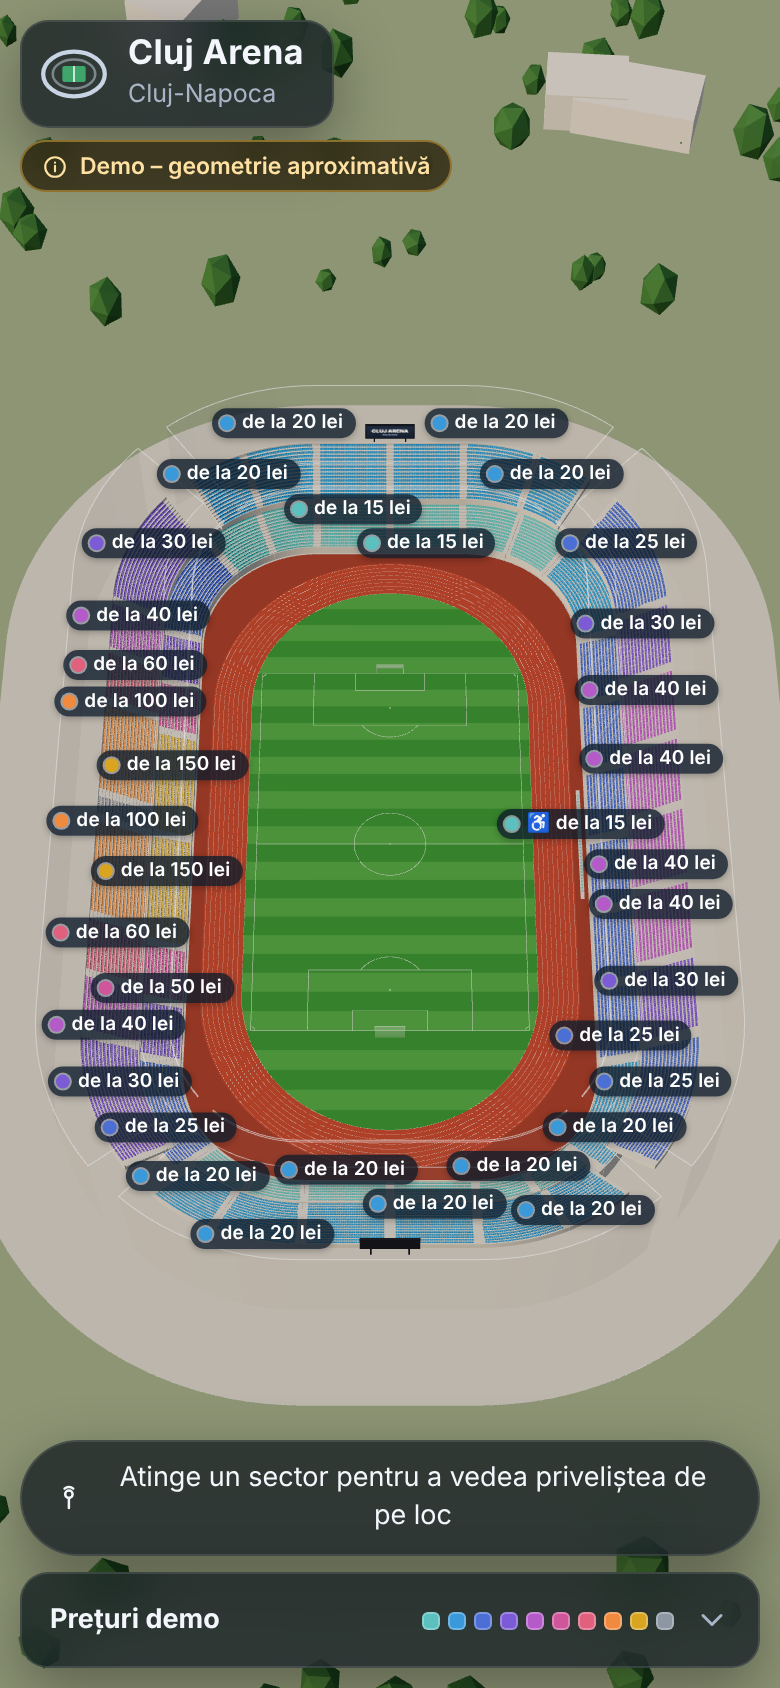
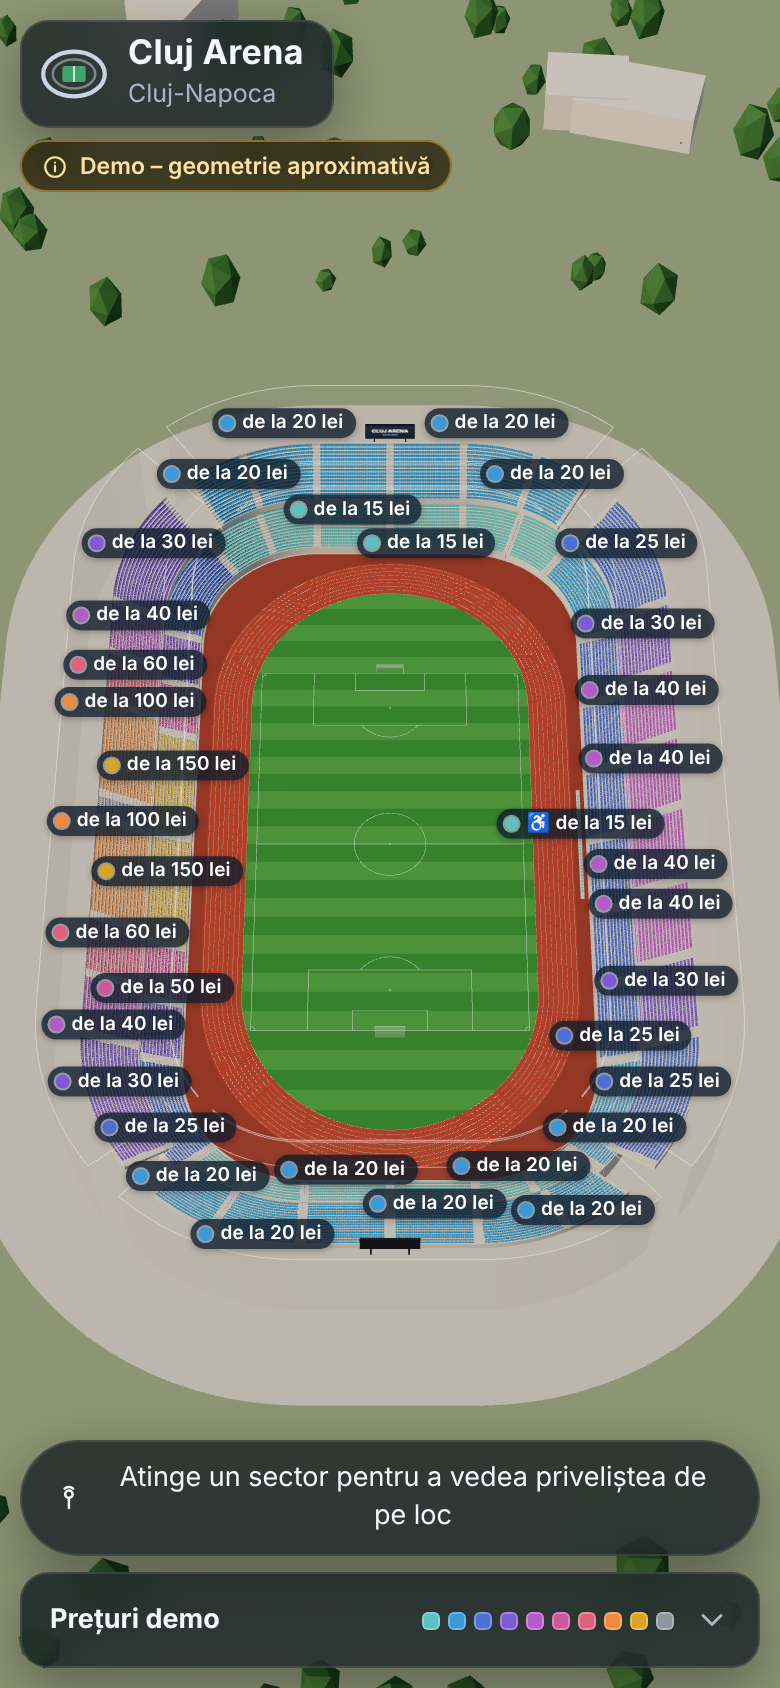
REPORT.md: results, screenshots, FPS, tests, review outcome, on-site checklist, next steps
Claude-Session: https://claude.ai/code/session_01UAsyvKvTrNXNitT8HvreMs

diff --git a/REPORT.md b/REPORT.md
@@ -1,0 +1,284 @@
+# REPORT — Cluj Arena "view from your seat" sales demo
+
+**Status: complete and verified.** All 85 unit tests and 7 end-to-end tests pass;
+the typecheck and `npm run build` pass; there are zero console errors. An
+independent reviewer agent (fresh context, did not write the code) checked
+the build against the spec and tried to break it; its findings were fixed or
+documented (see §5). Everything is committed and pushed on
+`claude/relaxed-galileo-5jqhby`.
+
+> **Read first:** every geometric value is an **estimate**. The build
+> environment could not open any reference website or photo (only a search
+> engine's text excerpts were reachable), so the stadium has not been checked
+> against a plan or a photo. The checklist in §6 is what to verify at
+> the stadium before calling it "Cluj Arena" in front of the venue's managers.
+
+## 1. What works
+
+| Brief | Result |
+|---|---|
+| Overview in 3D, from above at an angle | ✓ Framed for the screen shape: a laptop looks at the main stand (VIP, press and 100-lei sectors visible), a phone looks along the long axis. Drag to orbit, wheel/pinch to zoom (limited). |
+| Sectors coloured by price tier, labelled "de la X lei" | ✓ 9 demo tiers plus press. Labels are ranked by commercial value, so premium sectors are always labelled: 50/58 labels on a 1440×900 laptop, 35/58 on a 390×844 phone (the hidden ones are the cheapest lower-ring sectors; their price shows on hover and in the seat panel). |
+| Tap → highlight → ~1.5 s eased flight to a representative seat | ✓ 1.5 s ease-in-out cubic flight. It never passes through the roof or the stands (tested for all 58 sectors, all 3,306 seat-to-seat pairs and mid-air retargets). Other sectors turn grey. |
+| Seat view at eye height, limited look-around, stand/sector/row/seat/price, back, pick another sector | ✓ Eye 1.2 m above the tread. Drag to look: ±75° yaw, −50°…+20° pitch. Seat panel shows all fields, "Înapoi la stadion". Tapping another sector from the seat flies straight there. The phone's back gesture also returns to the overview. |
+| "Cumpără" → clearly fake checkout | ✓ "Demo – fără plată reală" banner, 1–4 adjacent seats, total, demo confirmation. No payment or personal-data fields. Disabled for the press sector. |
+| Romanian UI, "Cluj Arena", "Demo – geometrie aproximativă", no logos | ✓ Including the error and fallback screens. No club names, crests or sponsor marks anywhere. |
+| Laptop and phone | ✓ 1440×900, 390×844 portrait, and phones in landscape (compact layout). Adaptive resolution for slower devices. |
+| Robust to fast repeated taps | ✓ Each new tap retargets the flight from the camera's current pose: no queue, no snapping, the last tap wins (e2e-tested). |
+| Venue-agnostic generator with an extension point | ✓ A second, fictional venue (`?venue=example-arena`: football-only, one ring, no track) renders and passes the same invariant tests. The theatre ("horseshoe") extension point and its real scope are in ARCHITECTURE §9. |
+| Invalid config fails fast | ✓ zod plus semantic checks; messages name the JSON path and the sector. The app shows the errors instead of a broken scene. |
+
+## 2. Screenshots
+
+All from Playwright on the production build. "Seat" screenshots were taken
+after a **real tap** on the sector in the overview and the camera's arrival.
+
+| | Laptop 1440×900 | Phone 390×844 |
+|---|---|---|
+| Overview | ![](screenshots/desktop-overview.png) | ![](screenshots/phone-overview.png) |
+| Tribuna I · 2C (100 lei) | ![](screenshots/desktop-seat-tribuna-I-2C.png) | ![](screenshots/phone-seat-tribuna-I-2C.png) |
+| Peluza II · 1H (lower ring) | ![](screenshots/desktop-seat-peluza-II-1H.png) | ![](screenshots/phone-seat-peluza-II-1H.png) |
+| Tribuna II · 2M2 | ![](screenshots/desktop-seat-tribuna-II-2M2.png) | ![](screenshots/phone-seat-tribuna-II-2M2.png) |
+| Peluza I · 2V | ![](screenshots/desktop-seat-peluza-I-2V.png) | ![](screenshots/phone-seat-peluza-I-2V.png) |
+| Fake checkout | ![](screenshots/desktop-checkout.png) | ![](screenshots/phone-checkout.png) |
+
+Extra: corner sector at the roof gap ![](screenshots/desktop-seat-corner-2O2.png),
+phone in landscape ![](screenshots/phone-landscape-seat-2M2.png)
+![](screenshots/phone-landscape-checkout.png), and the second venue
+![](screenshots/example-arena-overview.png). The landscape and second-venue
+shots are manual Playwright captures from the dev server.
+
+## 3. Performance (overview, all 30,335 seats rendered)
+
+| Measured in this environment (headless Chromium, **SwiftShader = CPU rendering, 4 cores**) | DPR 1 | DPR 2 |
+|---|---|---|
+| Frames per second | **4.0** | **1.75** |
+| p95 frame time | 317 ms | 700 ms |
+| **Our JavaScript per frame** (CDP `ScriptDuration`) | **1.8 ms** | **2.1 ms** |
+| Main-thread time per frame (mostly waiting for the software rasteriser) | 283 ms | 799 ms |
+| Draw calls / triangles | 89 / 158,298 | 89 / 158,298 |
+
+**How to read this:** this container has no GPU, so every pixel is rasterised
+on the CPU. Those fps numbers are a floor and say nothing about a laptop. What
+does transfer to real hardware:
+
+- **Our CPU cost is ~2 ms per frame**, about 12 % of a 60 fps budget.
+- **The GPU load is small:** 89 draw calls and ~160k triangles in the overview
+  (seat LOD: 4-triangle seats when far, 20 when near), plus about 645k
+  triangles in the seat view. A mid-range laptop GPU handles this many times
+  over.
+- **Fill rate is what scales with screen density** (DPR 2 ≈ ½ the fps of DPR 1
+  here). That's why the resolution adapts on slow devices.
+
+**Please measure on the demo hardware:** open the deployed site with `?fps`
+(e.g. `https://<your-app>.vercel.app/?fps`). A meter shows fps and the worst
+frame. I could not measure a real GPU here, so I don't claim "60 fps". The
+design target is that, and the numbers above are why I expect it.
+
+## 4. Test results
+
+**Unit tests (vitest): 85 passed, 9 files.**
+
+| Area | What is checked |
+|---|---|
+| Seat count | generated seats = the sum of the rows = `capacity.total` = **30,335**; VIP **1,464**, press **168**, wheelchair **32**; unique ids; sectors contiguous |
+| Seat spacing | no two seats closer than their seat width (spatial hash over all 30,335 seats, 1 mm tolerance for curved rows) |
+| Sightlines | **every seat** clears the heads in front to the **pitch centre** with C ≥ 60 mm (minimum found: **252 mm**, at 1A2 row 2) and clears every parapet (minimum **73 mm**, 1A2 row 1). Stricter than asked: also to the **nearest touchline**, minimum **77 mm** (upper ring, Tribuna I) |
+| Every venue file | the same invariants for `example-arena` (touchline minimum 65 mm). Its first draft failed at 24 mm and was fixed, which shows the tests catch real design errors |
+| Curve maths | exact offset lengths vs. numeric integration, inverse mapping, level-set property, continuity |
+| Validation | 19 broken configs, each rejected with a specific, located message |
+| Meshes | finite, indices in range, triangle winding matches normals, roof ≥ 3 m above the highest eye |
+| Camera | framing on laptop and phone, look clamps, portrait tilt, roof-safe flights for every sector and seat pair plus a control test that catches a naive straight-line flight |
+| UI helpers | price formatting, seat summary, error rendering |
+
+**End-to-end (Playwright, production build): 7 passed, 0 console errors.**
+- Laptop and phone: overview → **real tap** on a sector in each stand (2C, 1H, 2M2, 2V) → seat view → back → fake checkout → Escape.
+- Rapid taps (3 sectors in about 300 ms) end on the last one tapped.
+- Escape mid-flight, corner sectors at the roof gaps (2A1, 2O2), the press sector (purchase disabled).
+- Browser/phone back gesture returns from a seat to the overview.
+- FPS at DPR 1 and 2 (above).
+
+The one console *warning* on load (`THREE.Clock … deprecated`) comes from
+@react-three/fiber 9.8 running with three 0.187; it is not an error and needs an upstream fix.
+
+**Build:** `npm run build` passes (tsc + Vite). Gzipped: three.js 193 kB, R3F/drei 126 kB, app 60 kB.
+
+## 5. Independent review — findings and what happened
+
+The reviewer found no blockers and 17 findings. All four majors are fixed:
+
+| # | Finding | Outcome |
+|---|---|---|
+| 1 | Sky never rendered (sky sphere beyond the camera's far plane) | **Fixed**: the sky dome follows the camera inside the far plane |
+| 2 | Overview hid labels of premium sectors (33/58 shown, 2C/2D/1C/2M2 missing) | **Fixed**: commercial-value ranking plus nudging; 50/58, all premium shown |
+| 3 | No WebGL fallback or error boundary (blank white page) | **Fixed**: WebGL check, error boundary, context-loss handling, Romanian fallback with reload |
+| 4 | Phone landscape: seat card covered 74 % of the height; checkout scrolled | **Fixed**: compact card, two-column checkout that fits |
+| 5 | Floodlights as a stray dotted line in the overview | **Fixed**: hidden with the ghosted roof |
+| 6 | Rotating the phone lost the portrait tilt | **Fixed** |
+| 7 | Phone back gesture left the demo | **Fixed**: history entry per seat view |
+| 8 | Validator gaps (roof segments, floodlight count, eye height, rows on the field, index-only paths) | **Fixed** |
+| 9 | Horseshoe extension point narrower than documented | **Documented honestly** (ARCHITECTURE §9); an interface waits for a second template |
+| 10 | Lower ring of Tribuna I priced 25–40, not 25–50 | **Fixed** (1B/1E at 50 lei) |
+| 11 | Eye height read as "above the tread" vs. "above the seat" | **Kept**, needs your confirmation (FACTS.md) |
+| 12 | THREE.Clock warning | Upstream; documented |
+| 13 | Phone: expanded legend pushed the hint over the stadium | **Fixed** (hint hides while the legend is open). Zoom always targets the centre: kept |
+| 14 | Seat view draws all seats at full detail; continuous rendering | Kept (fine on laptops; adaptive DPR protects phones); next step 3 below |
+| 15 | REPORT.md missing; wrong wheelchair-platform location; roof coverage stated as 93 % | **Fixed** (this file; docs corrected; coverage is 98 % in plan) |
+| 16 | drei never imported | **Fixed**: drei's `PerformanceMonitor` drives the adaptive resolution |
+| 17 | English details on the error page; misleading title for an unknown venue; static `<title>` | **Partly fixed**: distinct "Locație necunoscută" page, title from the venue. The validator details stay in English (they are for whoever edits the JSON) |
+
+While fixing these, the e2e suite exposed a flaky test: it tapped during the
+load-time camera intro. That was fixed in the test, which now waits for the
+camera to be idle. The app behaviour was correct.
+
+## 6. Still ESTIMATED: what to verify at the stadium
+
+Seat counts per row were fitted to the sourced totals (30,335 / 1,464 / 168 / 32)
+from an estimated cross-section, so per-sector counts are only as good as the
+row counts. Spans are metres along the bowl's reference line (see README).
+
+**Whole stadium (do these first; they move everything else)**
+- [ ] Rows per ring: lower **14**, upper **16** (same in all four stands?)
+- [ ] Row depth 0.80 m; seat width 0.50 m (VIP 0.55 m)
+- [ ] Lower ring first-row height ≈ 1.6 m above the track; upper ring first row ≈ 11.5 m; upper ring overhangs the lower ring by ≈ 2.7 m
+- [ ] Rakes: lower ≈ 21°→27°, upper ≈ 30°→34°
+- [ ] Bowl front line ≈ 184 × 100 m with ≈ 30 m corner radius; corners of the lower ring continuous?
+- [ ] Upper ring and roof **open at the four corners**? Gap width (≈ 10 m at the facade used)
+- [ ] Roof leading edge position: the model covers 98 % of seats in plan, the source says ≈ 93 % (maybe 1–2 front rows uncovered)
+- [ ] Roof edge ≈ 27–28 m high; translucent band ≈ 7 m deep
+- [ ] Floodlights along the roof edge (386 fittings sourced)
+- [ ] Two screens: position (modelled behind the upper ring of each peluza)
+- [ ] Wheelchair spaces (32): location (modelled at pitch level in front of Tribuna II, sector `PD`)
+- [ ] VIP/business (1,464): location (modelled as lower-ring sectors 1C/1D of Tribuna I) and the boxes level
+- [ ] Press (168): location (modelled as narrow upper-ring sector 2P at the centre of Tribuna I)
+- [ ] Which end is Peluza I (Sud) vs. II (Nord); Tribuna I on the west
+- [ ] Real seat colours (sourced as "shades of grey"; the demo colours seats by price)
+- [ ] Sector letters and boundaries against the bilete.ro seat map (only 2A1, 2A2, 2B, 2C, 2D, 1M1, 1M2, 2M2, 1T1, 1Y are sourced)
+
+**Per sector** (rows, seats, demo price, span):
+
+#### Tribuna I
+
+**Inelul 1 (inferior)**: 8 sectors, rows 1–14, first tread 1.6 m, last 6.15 m
+
+- [ ] **1A1**: 14 rows, 727 seats, 25 lei, span -85.562 … -62 m
+- [ ] **1A2**: 14 rows, 378 seats, 30 lei, span -62 … -46.5 m
+- [ ] **1B**: 14 rows, 378 seats, 50 lei, span -46.5 … -31 m
+- [ ] **1C** (vip): 14 rows, 736 seats, 150 lei, span -31 … 0 m
+- [ ] **1D** (vip): 14 rows, 728 seats, 150 lei, span 0 … 31 m
+- [ ] **1E**: 14 rows, 378 seats, 50 lei, span 31 … 46.5 m
+- [ ] **1F1**: 14 rows, 378 seats, 30 lei, span 46.5 … 62 m
+- [ ] **1F2**: 14 rows, 727 seats, 25 lei, span 62 … 85.562 m
+
+**Inelul 2 (superior)**: 9 sectors, rows 1–16, first tread 11.5 m, last 19.075 m
+
+- [ ] **2A1**: 16 rows, 947 seats, 30 lei, span -83.062 … -62 m
+- [ ] **2A2**: 16 rows, 432 seats, 40 lei, span -62 … -46.5 m
+- [ ] **2B**: 16 rows, 432 seats, 60 lei, span -46.5 … -31 m
+- [ ] **2C**: 16 rows, 800 seats, 100 lei, span -31 … -3.5 m
+- [ ] **2P** (press): 16 rows, 168 seats, not for sale, span -3.5 … 3.5 m
+- [ ] **2D**: 16 rows, 800 seats, 100 lei, span 3.5 … 31 m
+- [ ] **2E**: 16 rows, 432 seats, 60 lei, span 31 … 46.5 m
+- [ ] **2F1**: 16 rows, 432 seats, 40 lei, span 46.5 … 62 m
+- [ ] **2F2**: 16 rows, 947 seats, 30 lei, span 62 … 83.062 m
+
+#### Peluza II (Nord)
+
+**Inelul 1 (inferior)**: 6 sectors, rows 1–14, first tread 1.6 m, last 6.15 m
+
+- [ ] **1G1**: 14 rows, 343 seats, 15 lei, span 85.562 … 97.343 m
+- [ ] **1G2**: 14 rows, 343 seats, 15 lei, span 97.343 … 109.124 m
+- [ ] **1H**: 14 rows, 504 seats, 15 lei, span 109.124 … 129.124 m
+- [ ] **1I**: 14 rows, 504 seats, 15 lei, span 129.124 … 149.124 m
+- [ ] **1J1**: 14 rows, 343 seats, 15 lei, span 149.124 … 160.905 m
+- [ ] **1J2**: 14 rows, 343 seats, 15 lei, span 160.905 … 172.686 m
+
+**Inelul 2 (superior)**: 6 sectors, rows 1–16, first tread 11.5 m, last 19.075 m
+
+- [ ] **2G1**: 16 rows, 392 seats, 20 lei, span 88.062 … 97.343 m
+- [ ] **2G2**: 16 rows, 515 seats, 20 lei, span 97.343 … 109.124 m
+- [ ] **2H**: 16 rows, 576 seats, 20 lei, span 109.124 … 129.124 m
+- [ ] **2I**: 16 rows, 576 seats, 20 lei, span 129.124 … 149.124 m
+- [ ] **2J1**: 16 rows, 515 seats, 20 lei, span 149.124 … 160.905 m
+- [ ] **2J2**: 16 rows, 392 seats, 20 lei, span 160.905 … 170.186 m
+
+#### Tribuna II
+
+**Platformă (nivelul terenului)**: 1 sector, rows 1–1, first tread 0.15 m, last 0.15 m
+
+- [ ] **PD** (accessible): 1 row, 32 seats, 15 lei, span 242.248 … 274.248 m
+
+**Inelul 1 (inferior)**: 8 sectors, rows 1–14, first tread 1.6 m, last 6.15 m
+
+- [ ] **1K1**: 14 rows, 727 seats, 20 lei, span 172.686 … 196.248 m
+- [ ] **1K2**: 14 rows, 504 seats, 25 lei, span 196.248 … 216.918 m
+- [ ] **1L**: 14 rows, 504 seats, 25 lei, span 216.918 … 237.578 m
+- [ ] **1M1**: 14 rows, 504 seats, 25 lei, span 237.578 … 258.248 m
+- [ ] **1M2**: 14 rows, 504 seats, 25 lei, span 258.248 … 278.918 m
+- [ ] **1N**: 14 rows, 504 seats, 25 lei, span 278.918 … 299.578 m
+- [ ] **1O1**: 14 rows, 504 seats, 25 lei, span 299.578 … 320.248 m
+- [ ] **1O2**: 14 rows, 727 seats, 20 lei, span 320.248 … 343.81 m
+
+**Inelul 2 (superior)**: 8 sectors, rows 1–16, first tread 11.5 m, last 19.075 m
+
+- [ ] **2K1**: 16 rows, 947 seats, 25 lei, span 175.186 … 196.248 m
+- [ ] **2K2**: 16 rows, 576 seats, 30 lei, span 196.248 … 216.918 m
+- [ ] **2L**: 16 rows, 576 seats, 40 lei, span 216.918 … 237.578 m
+- [ ] **2M1**: 16 rows, 576 seats, 40 lei, span 237.578 … 258.248 m
+- [ ] **2M2**: 16 rows, 576 seats, 40 lei, span 258.248 … 278.918 m
+- [ ] **2N**: 16 rows, 576 seats, 40 lei, span 278.918 … 299.578 m
+- [ ] **2O1**: 16 rows, 576 seats, 30 lei, span 299.578 … 320.248 m
+- [ ] **2O2**: 16 rows, 947 seats, 25 lei, span 320.248 … 341.31 m
+
+#### Peluza I (Sud)
+
+**Inelul 1 (inferior)**: 6 sectors, rows 1–14, first tread 1.6 m, last 6.15 m
+
+- [ ] **1T1**: 14 rows, 343 seats, 15 lei, span 343.81 … 355.591 m
+- [ ] **1T2**: 14 rows, 343 seats, 15 lei, span 355.591 … 367.372 m
+- [ ] **1U**: 14 rows, 504 seats, 15 lei, span 367.372 … 387.372 m
+- [ ] **1V**: 14 rows, 503 seats, 15 lei, span 387.372 … 407.372 m
+- [ ] **1X**: 14 rows, 343 seats, 15 lei, span 407.372 … 419.153 m
+- [ ] **1Y**: 14 rows, 343 seats, 15 lei, span 419.153 … 430.934 m
+
+**Inelul 2 (superior)**: 6 sectors, rows 1–16, first tread 11.5 m, last 19.075 m
+
+- [ ] **2T1**: 16 rows, 392 seats, 20 lei, span 346.31 … 355.591 m
+- [ ] **2T2**: 16 rows, 513 seats, 20 lei, span 355.591 … 367.372 m
+- [ ] **2U**: 16 rows, 560 seats, 20 lei, span 367.372 … 387.372 m
+- [ ] **2V**: 16 rows, 560 seats, 20 lei, span 387.372 … 407.372 m
+- [ ] **2X**: 16 rows, 513 seats, 20 lei, span 407.372 … 419.153 m
+- [ ] **2Y**: 16 rows, 392 seats, 20 lei, span 419.153 … 428.434 m
+
+## 7. Known limitations
+
+- **Geometry is approximate** (§6). The tool flags it in the UI ("Demo – geometrie aproximativă", "Poziție estimată").
+- **Prices are demo prices** following the historical structure; the VIP tier (150 lei) is an assumption.
+- **Research was text-only:** no reference page or photo could be opened from the build environment (DNS-blocked); only search-engine excerpts. FACTS.md marks the evidence type of every fact.
+- **FPS was not measured on a real GPU.** Use `?fps` on the demo laptop and phone.
+- **Labels:** on a phone about a third of the cheapest sectors have no label in the overview (no room); their price shows after tapping.
+- **One cross-section per ring** for all four stands. A real stand differs (VIP boxes level, press desks, vomitories as gaps in rows).
+- **The seat view draws every seat at full detail** (~645k triangles). It is fine on laptops; the adaptive resolution is the phone safety net.
+- **Console warning** `THREE.Clock … deprecated` from the R3F/three versions (not an error).
+- **The theatre ("horseshoe") template** is designed for (ARCHITECTURE §9) but not built.
+- **Checkout** is a mock with no booking logic. The "1–4 adjacent seats" assumes seats are free.
+
+## 8. Recommended next 3 steps
+
+1. **Ground-truth the venue (1 visit, ½ day).** Walk the §6 checklist with
+   a laser meter and the bilete.ro seat map: row counts, first-row heights,
+   corner gaps, sector boundaries and letters. Put the numbers into
+   `scripts/author-cluj-arena.ts` (or real per-row seat counts straight into
+   the JSON) and re-run `npm test`. The sightline and capacity tests will
+   flag anything inconsistent. Take your own photos from 4–6 seats to compare
+   with the seat views.
+2. **Measure on the actual demo devices, then tune.** Deploy to Vercel
+   (README), open `?fps` on the sales laptop and on a mid-range Android phone.
+   If the phone seat view drops below ~45 fps, add per-seat distance LOD in a
+   small custom shader (far seats at 4 triangles in the seat view too) and
+   render on demand when the camera is idle.
+3. **Make it sell: real availability and a seat picker.** Load sold/free
+   seats from a JSON feed (or a bilete.ro export) and colour them. Let the
+   user step through rows and seats within a sector (the seat view already
+   works for any seat id). Add a share link per seat (`?seat=2M2-R8-S18`).
+   That turns the demo into the managers' own "sell the view" story.
